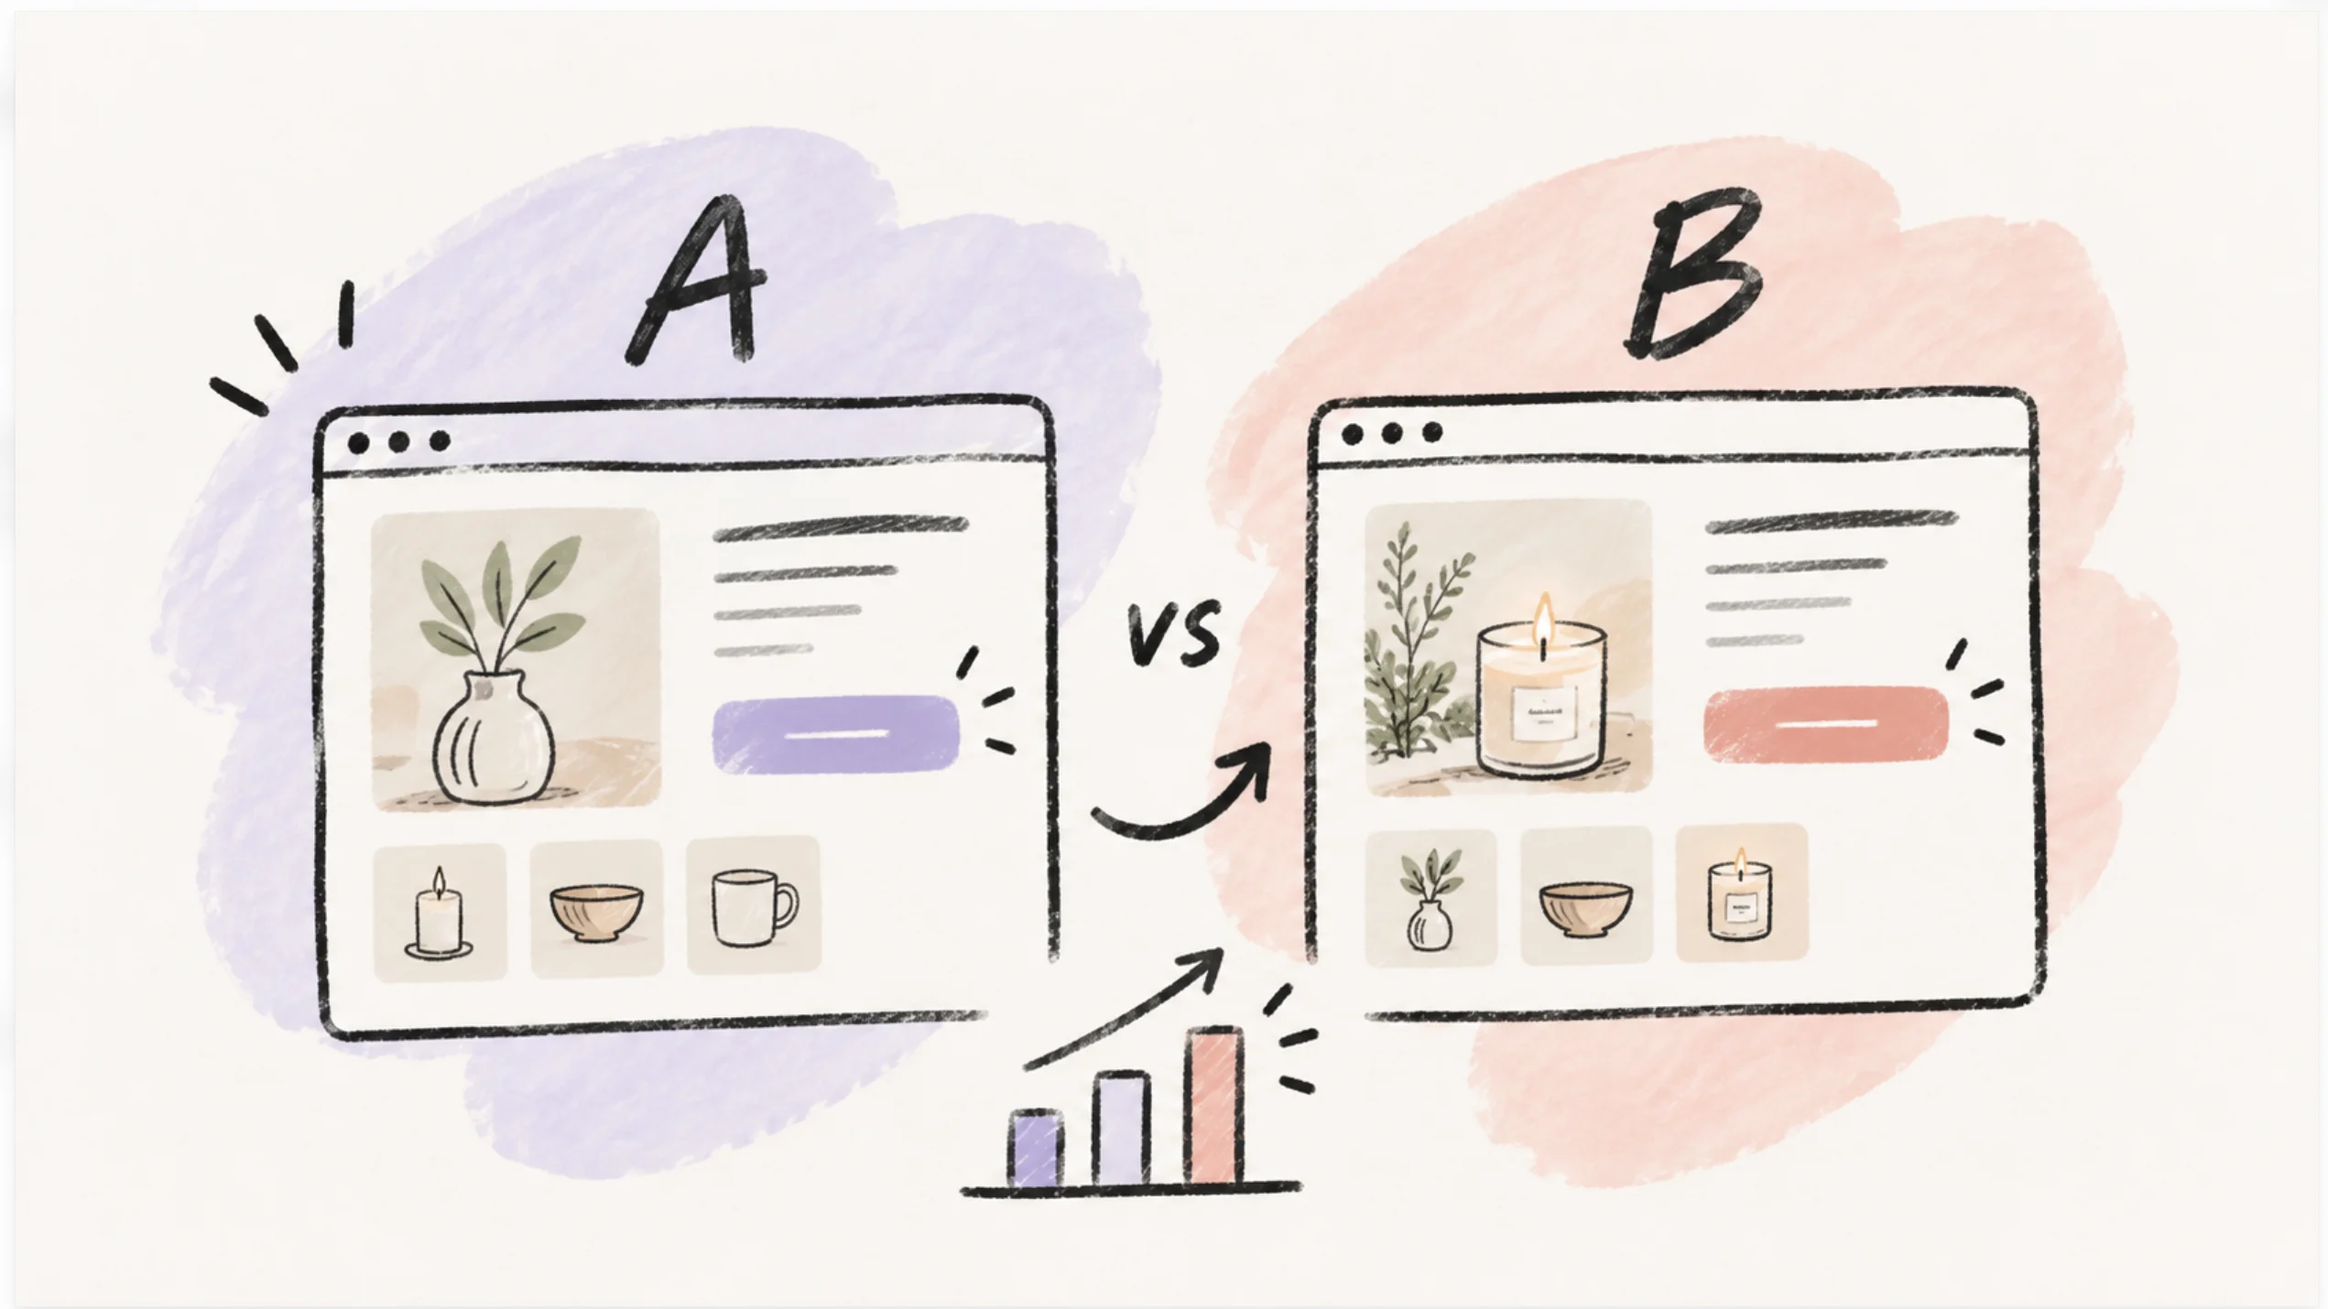
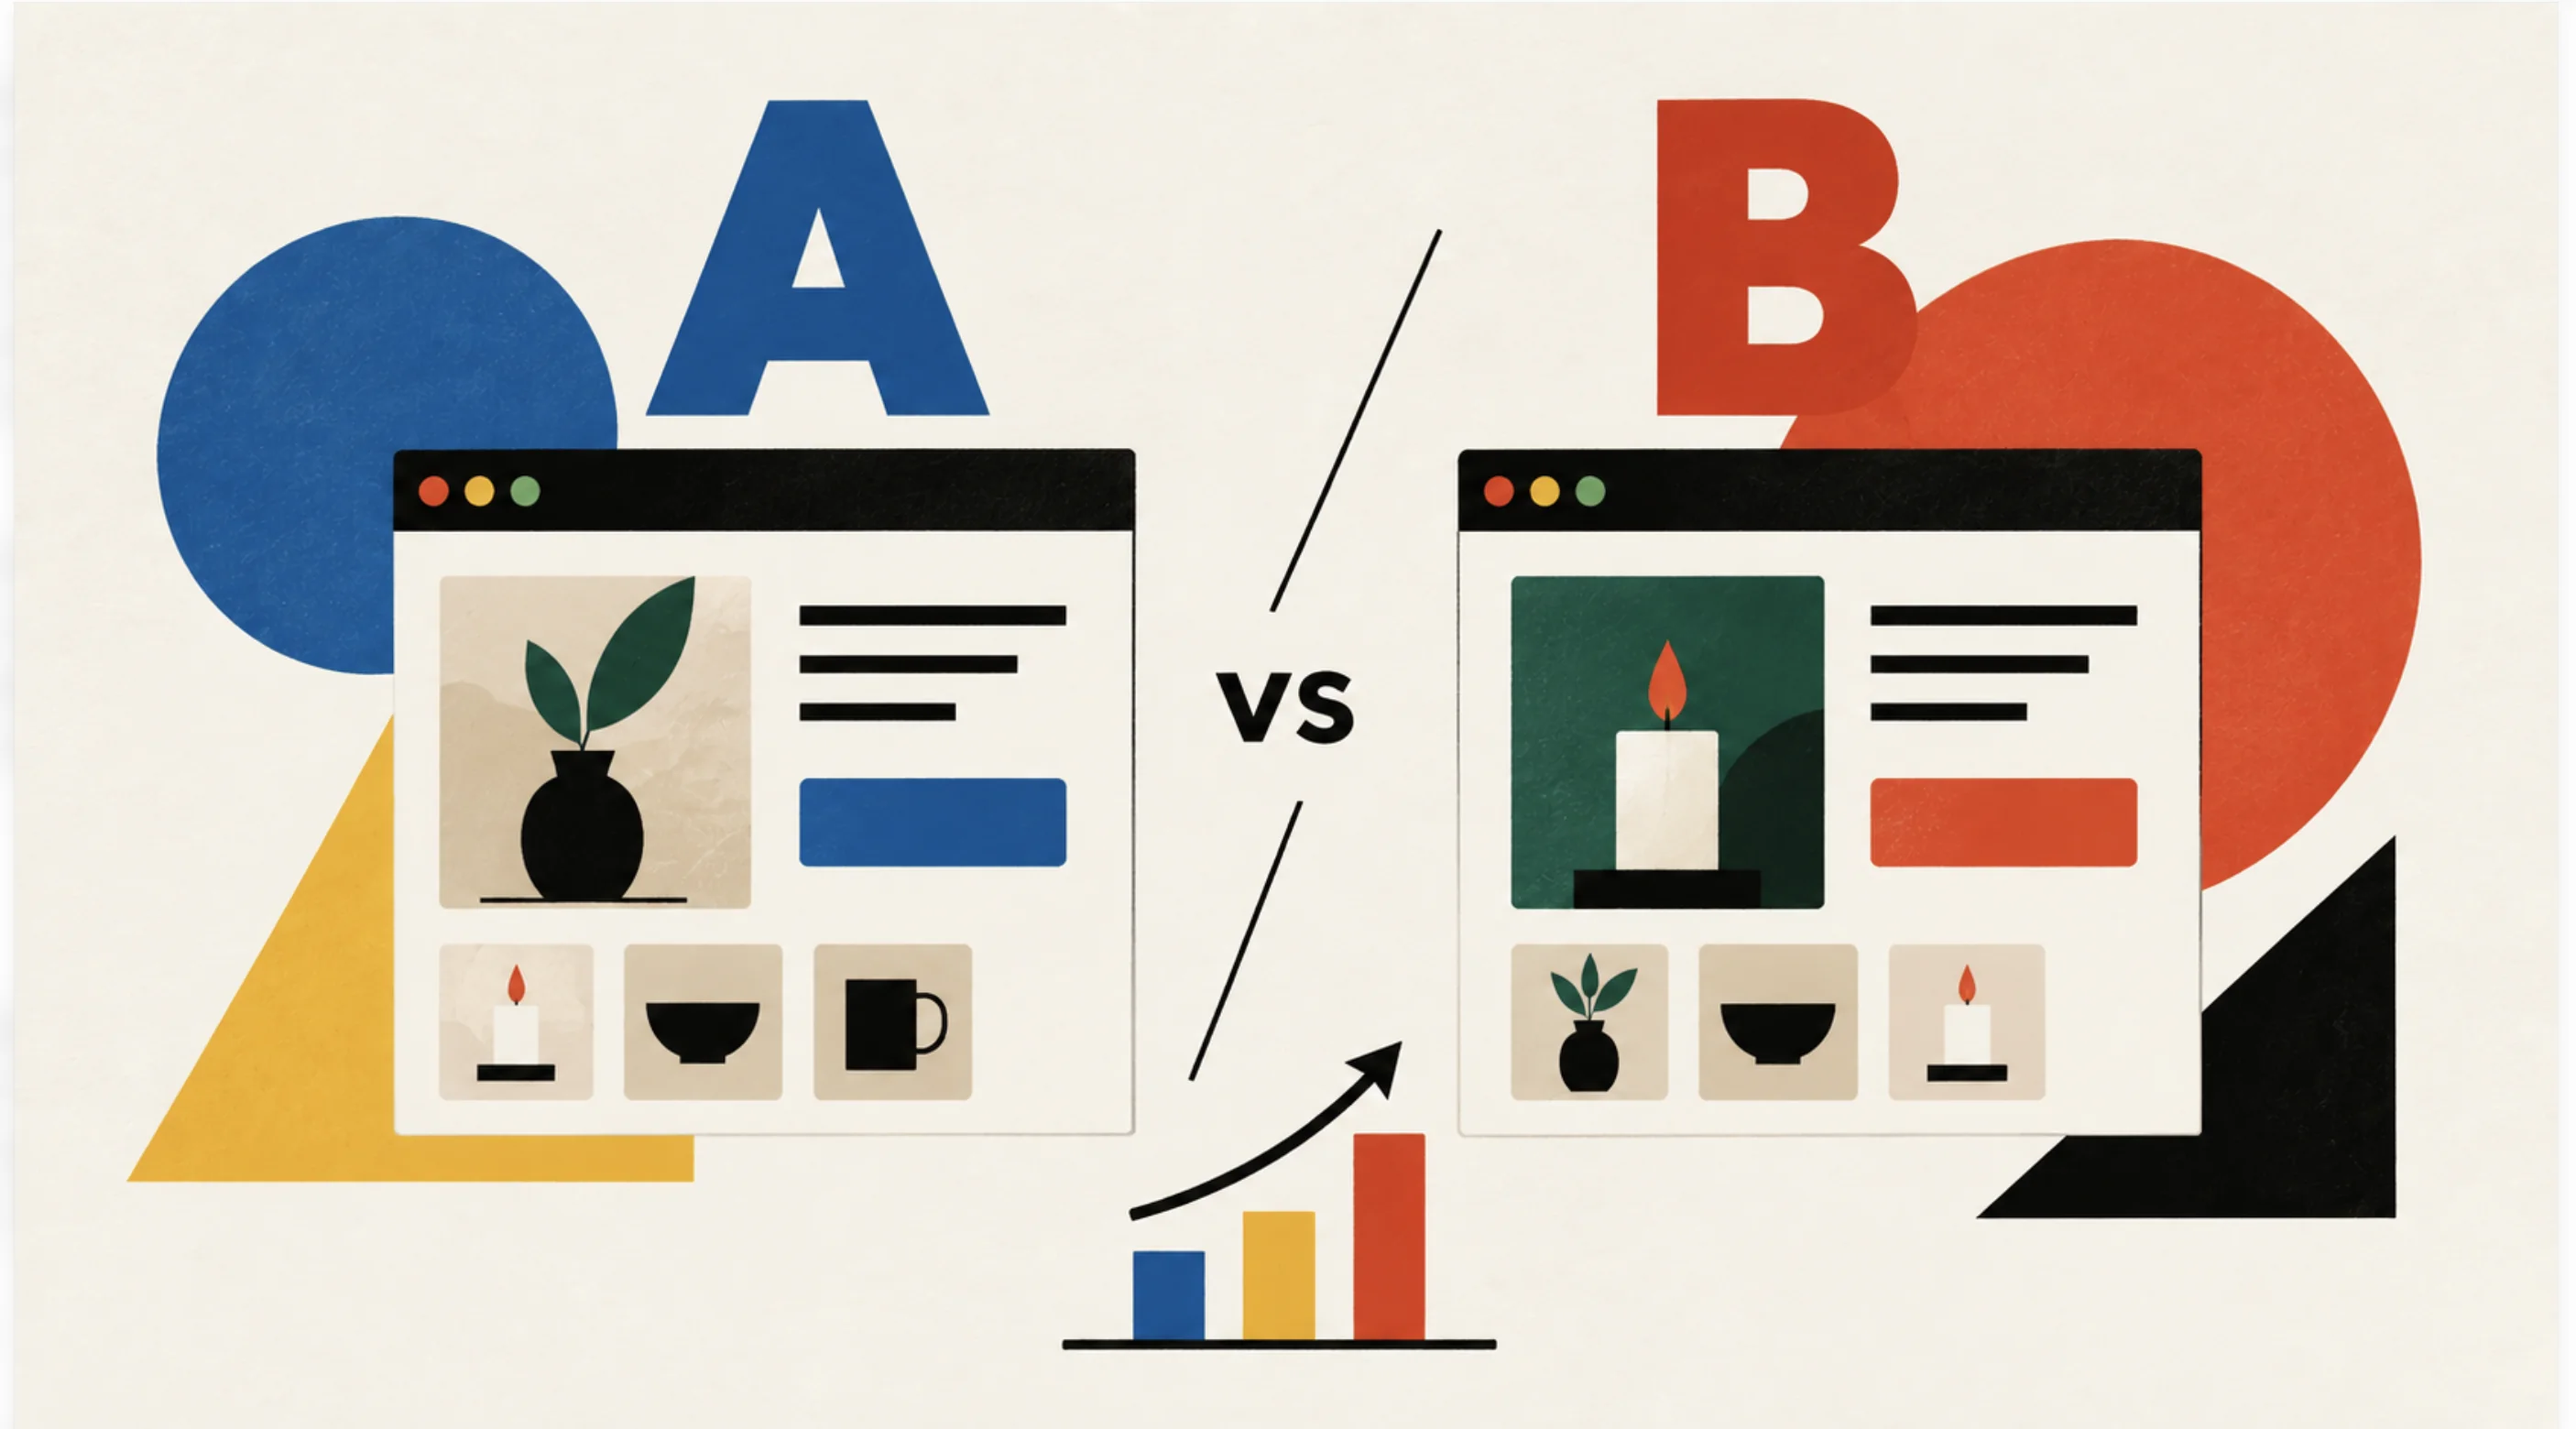
Replace A/B Testing cover with new illustration
Claude-Session: https://claude.ai/code/session_019wGqRYwmqLdzzDcdqngURR

diff --git a/index.html b/index.html
@@ -133,7 +133,7 @@
       </a>
 
       <a class="project-card" href="ab-testing.html">
-        <span class="project-card-img"><img src="images/ab-testing-cover.webp" alt="A/B testing: users randomly split into a control group and a treatment group" width="2542" height="1430" loading="lazy"></span>
+        <span class="project-card-img"><img src="images/ab-testing-cover.webp" alt="A/B testing: users randomly split into a control group and a treatment group" width="2812" height="1560" loading="lazy"></span>
         <span class="project-card-body">
           <span class="project-type">Experimentation</span>
           <span class="project-title">A/B Testing</span>

diff --git a/statistics.html b/statistics.html
@@ -58,7 +58,7 @@
       </a>
 
       <a class="project-card" href="ab-testing.html">
-        <span class="project-card-img"><img src="images/ab-testing-cover.webp" alt="A/B testing: users randomly split into a control group and a treatment group" width="2542" height="1430" loading="lazy"></span>
+        <span class="project-card-img"><img src="images/ab-testing-cover.webp" alt="A/B testing: users randomly split into a control group and a treatment group" width="2812" height="1560" loading="lazy"></span>
         <span class="project-card-body">
           <span class="project-type">Experimentation</span>
           <span class="project-title">A/B Testing</span>

diff --git a/ab-testing.html b/ab-testing.html
@@ -36,7 +36,7 @@
   <p class="post-sub">How to tell whether a change really made things better</p>
 
   <figure class="post-cover">
-    <img src="images/ab-testing-cover.webp" alt="A/B testing: users randomly split into a control group A with the current version and a treatment group B with the new feature" width="2542" height="1430">
+    <img src="images/ab-testing-cover.webp" alt="A/B testing: users randomly split into a control group A with the current version and a treatment group B with the new feature" width="2812" height="1560">
   </figure>
 
   <h2>What is it?</h2>
